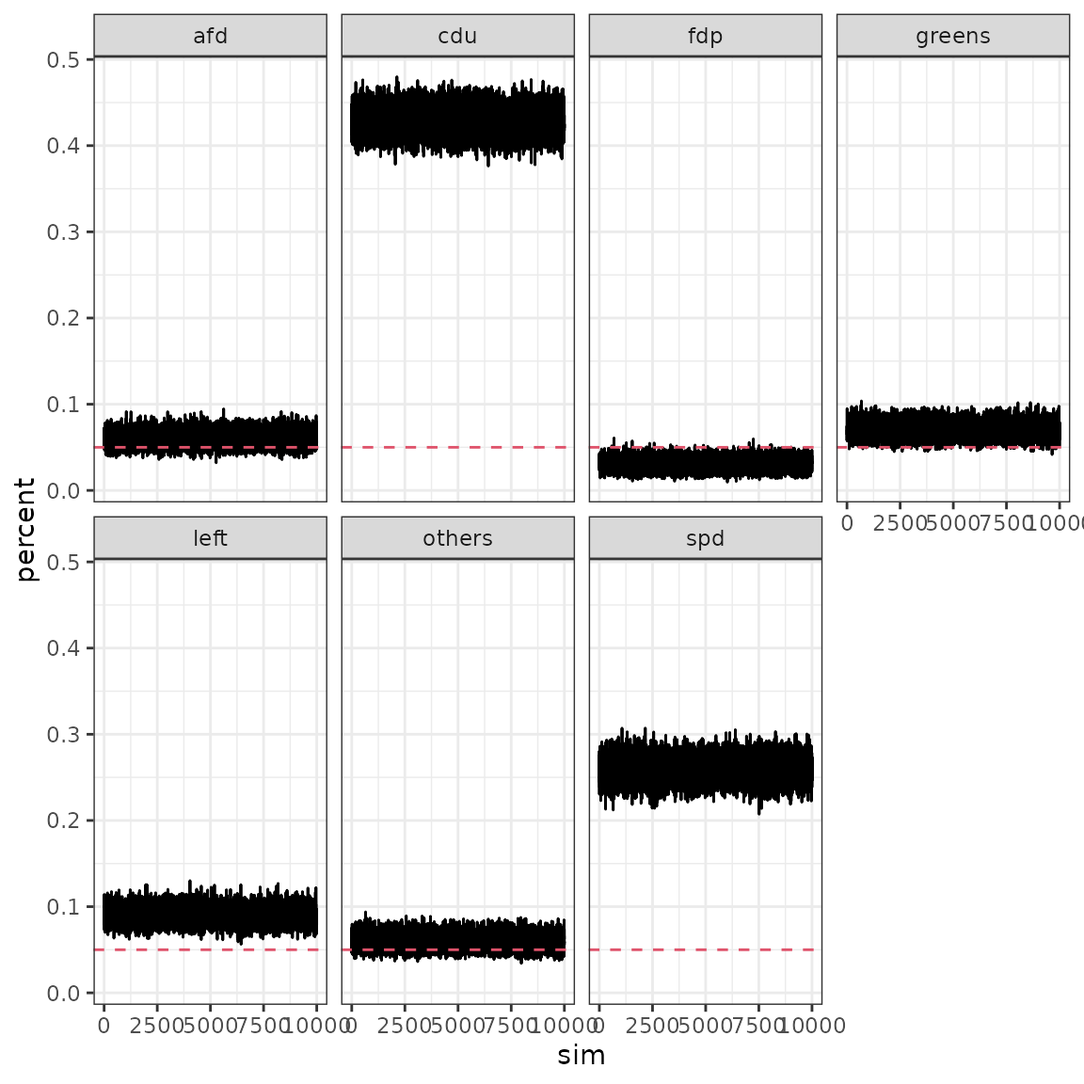
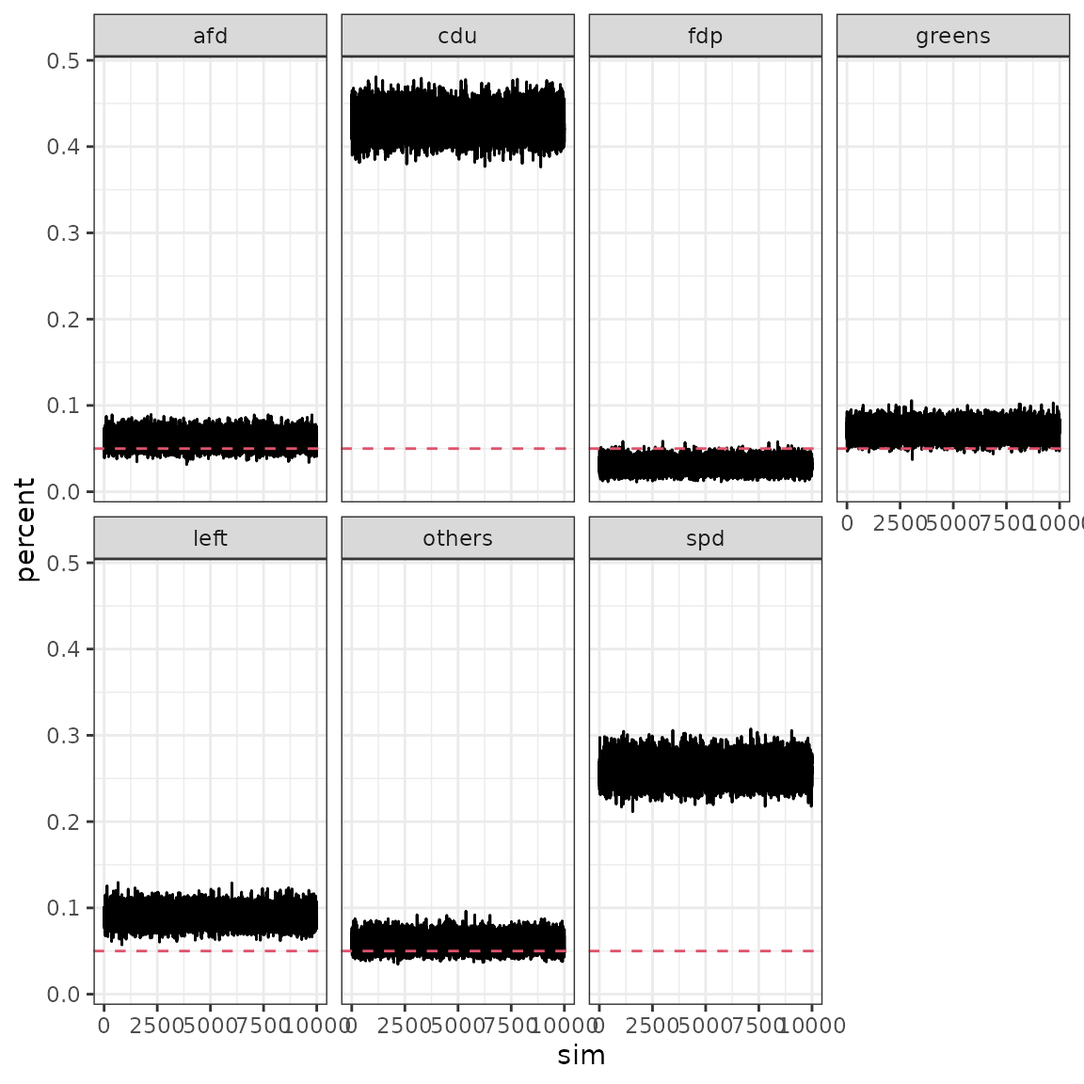
Deploying to gh-pages from @ adibender/coalitions@1d0309c2018a5a98af88ec200ad14ca1e53c190f 🚀

diff --git a/articles/workflow.html b/articles/workflow.html
@@ -222,16 +222,16 @@ by drawing from the Dirichlet distribution</p>
 <pre><code><span><span class="co">## <span style="color: #949494;"># A tibble: 10 × 7</span></span></span>
 <span><span class="co">##      cdu   spd greens    fdp   left    afd others</span></span>
 <span><span class="co">##    <span style="color: #949494; font-style: italic;">&lt;dbl&gt;</span> <span style="color: #949494; font-style: italic;">&lt;dbl&gt;</span>  <span style="color: #949494; font-style: italic;">&lt;dbl&gt;</span>  <span style="color: #949494; font-style: italic;">&lt;dbl&gt;</span>  <span style="color: #949494; font-style: italic;">&lt;dbl&gt;</span>  <span style="color: #949494; font-style: italic;">&lt;dbl&gt;</span>  <span style="color: #949494; font-style: italic;">&lt;dbl&gt;</span></span></span>
-<span><span class="co">## <span style="color: #BCBCBC;"> 1</span> 0.420 0.242 0.091<span style="text-decoration: underline;">2</span> 0.029<span style="text-decoration: underline;">3</span> 0.089<span style="text-decoration: underline;">3</span> 0.050<span style="text-decoration: underline;">8</span> 0.077<span style="text-decoration: underline;">2</span></span></span>
-<span><span class="co">## <span style="color: #BCBCBC;"> 2</span> 0.408 0.261 0.096<span style="text-decoration: underline;">6</span> 0.026<span style="text-decoration: underline;">6</span> 0.089<span style="text-decoration: underline;">9</span> 0.048<span style="text-decoration: underline;">1</span> 0.069<span style="text-decoration: underline;">4</span></span></span>
-<span><span class="co">## <span style="color: #BCBCBC;"> 3</span> 0.408 0.267 0.101  0.026<span style="text-decoration: underline;">4</span> 0.091<span style="text-decoration: underline;">7</span> 0.045<span style="text-decoration: underline;">4</span> 0.061<span style="text-decoration: underline;">1</span></span></span>
-<span><span class="co">## <span style="color: #BCBCBC;"> 4</span> 0.406 0.259 0.095<span style="text-decoration: underline;">9</span> 0.031<span style="text-decoration: underline;">3</span> 0.089<span style="text-decoration: underline;">4</span> 0.051<span style="text-decoration: underline;">1</span> 0.067<span style="text-decoration: underline;">5</span></span></span>
-<span><span class="co">## <span style="color: #BCBCBC;"> 5</span> 0.411 0.260 0.087<span style="text-decoration: underline;">5</span> 0.027<span style="text-decoration: underline;">2</span> 0.088<span style="text-decoration: underline;">6</span> 0.053<span style="text-decoration: underline;">6</span> 0.072<span style="text-decoration: underline;">8</span></span></span>
-<span><span class="co">## <span style="color: #BCBCBC;"> 6</span> 0.420 0.257 0.095<span style="text-decoration: underline;">5</span> 0.030<span style="text-decoration: underline;">2</span> 0.088<span style="text-decoration: underline;">0</span> 0.042<span style="text-decoration: underline;">8</span> 0.066<span style="text-decoration: underline;">5</span></span></span>
-<span><span class="co">## <span style="color: #BCBCBC;"> 7</span> 0.393 0.257 0.104  0.029<span style="text-decoration: underline;">6</span> 0.095<span style="text-decoration: underline;">7</span> 0.048<span style="text-decoration: underline;">7</span> 0.072<span style="text-decoration: underline;">6</span></span></span>
-<span><span class="co">## <span style="color: #BCBCBC;"> 8</span> 0.425 0.244 0.093<span style="text-decoration: underline;">0</span> 0.034<span style="text-decoration: underline;">2</span> 0.080<span style="text-decoration: underline;">6</span> 0.049<span style="text-decoration: underline;">2</span> 0.073<span style="text-decoration: underline;">9</span></span></span>
-<span><span class="co">## <span style="color: #BCBCBC;"> 9</span> 0.420 0.242 0.085<span style="text-decoration: underline;">0</span> 0.029<span style="text-decoration: underline;">5</span> 0.098<span style="text-decoration: underline;">4</span> 0.050<span style="text-decoration: underline;">5</span> 0.074<span style="text-decoration: underline;">8</span></span></span>
-<span><span class="co">## <span style="color: #BCBCBC;">10</span> 0.406 0.247 0.081<span style="text-decoration: underline;">6</span> 0.029<span style="text-decoration: underline;">2</span> 0.092<span style="text-decoration: underline;">6</span> 0.064<span style="text-decoration: underline;">6</span> 0.078<span style="text-decoration: underline;">6</span></span></span></code></pre>
+<span><span class="co">## <span style="color: #BCBCBC;"> 1</span> 0.407 0.261 0.081<span style="text-decoration: underline;">3</span> 0.030<span style="text-decoration: underline;">6</span> 0.096<span style="text-decoration: underline;">2</span> 0.043<span style="text-decoration: underline;">7</span> 0.080<span style="text-decoration: underline;">2</span></span></span>
+<span><span class="co">## <span style="color: #BCBCBC;"> 2</span> 0.428 0.249 0.084<span style="text-decoration: underline;">0</span> 0.032<span style="text-decoration: underline;">6</span> 0.076<span style="text-decoration: underline;">4</span> 0.047<span style="text-decoration: underline;">8</span> 0.082<span style="text-decoration: underline;">7</span></span></span>
+<span><span class="co">## <span style="color: #BCBCBC;"> 3</span> 0.437 0.236 0.086<span style="text-decoration: underline;">7</span> 0.025<span style="text-decoration: underline;">8</span> 0.094<span style="text-decoration: underline;">3</span> 0.048<span style="text-decoration: underline;">0</span> 0.072<span style="text-decoration: underline;">0</span></span></span>
+<span><span class="co">## <span style="color: #BCBCBC;"> 4</span> 0.433 0.244 0.082<span style="text-decoration: underline;">5</span> 0.026<span style="text-decoration: underline;">1</span> 0.097<span style="text-decoration: underline;">7</span> 0.054<span style="text-decoration: underline;">3</span> 0.062<span style="text-decoration: underline;">4</span></span></span>
+<span><span class="co">## <span style="color: #BCBCBC;"> 5</span> 0.424 0.231 0.096<span style="text-decoration: underline;">9</span> 0.032<span style="text-decoration: underline;">8</span> 0.096<span style="text-decoration: underline;">1</span> 0.049<span style="text-decoration: underline;">7</span> 0.069<span style="text-decoration: underline;">6</span></span></span>
+<span><span class="co">## <span style="color: #BCBCBC;"> 6</span> 0.404 0.258 0.093<span style="text-decoration: underline;">3</span> 0.033<span style="text-decoration: underline;">8</span> 0.098<span style="text-decoration: underline;">4</span> 0.039<span style="text-decoration: underline;">4</span> 0.073<span style="text-decoration: underline;">8</span></span></span>
+<span><span class="co">## <span style="color: #BCBCBC;"> 7</span> 0.430 0.239 0.087<span style="text-decoration: underline;">1</span> 0.022<span style="text-decoration: underline;">3</span> 0.101  0.046<span style="text-decoration: underline;">8</span> 0.074<span style="text-decoration: underline;">2</span></span></span>
+<span><span class="co">## <span style="color: #BCBCBC;"> 8</span> 0.437 0.249 0.085<span style="text-decoration: underline;">6</span> 0.029<span style="text-decoration: underline;">1</span> 0.091<span style="text-decoration: underline;">4</span> 0.043<span style="text-decoration: underline;">2</span> 0.064<span style="text-decoration: underline;">6</span></span></span>
+<span><span class="co">## <span style="color: #BCBCBC;"> 9</span> 0.414 0.258 0.089<span style="text-decoration: underline;">7</span> 0.031<span style="text-decoration: underline;">3</span> 0.087<span style="text-decoration: underline;">7</span> 0.056<span style="text-decoration: underline;">1</span> 0.063<span style="text-decoration: underline;">1</span></span></span>
+<span><span class="co">## <span style="color: #BCBCBC;">10</span> 0.429 0.244 0.094<span style="text-decoration: underline;">6</span> 0.027<span style="text-decoration: underline;">9</span> 0.085<span style="text-decoration: underline;">7</span> 0.050<span style="text-decoration: underline;">8</span> 0.067<span style="text-decoration: underline;">8</span></span></span></code></pre>
 </div>
 <div class="section level2">
 <h2 id="calculate-seat-distribution">Calculate seat distribution<a class="anchor" aria-label="anchor" href="#calculate-seat-distribution"></a>
@@ -254,31 +254,31 @@ function to the <code>distrib.fun</code> argument of the
 <pre><code><span><span class="co">## <span style="color: #949494;"># A tibble: 6 × 4</span></span></span>
 <span><span class="co">##   date       survey           draws             seats            </span></span>
 <span><span class="co">##   <span style="color: #949494; font-style: italic;">&lt;date&gt;</span>     <span style="color: #949494; font-style: italic;">&lt;list&gt;</span>           <span style="color: #949494; font-style: italic;">&lt;list&gt;</span>            <span style="color: #949494; font-style: italic;">&lt;list&gt;</span>           </span></span>
-<span><span class="co">## <span style="color: #BCBCBC;">1</span> 2013-11-03 <span style="color: #949494;">&lt;tibble [7 × 3]&gt;</span> <span style="color: #949494;">&lt;tibble [10 × 7]&gt;</span> <span style="color: #949494;">&lt;tibble [45 × 3]&gt;</span></span></span>
-<span><span class="co">## <span style="color: #BCBCBC;">2</span> 2013-10-27 <span style="color: #949494;">&lt;tibble [7 × 3]&gt;</span> <span style="color: #949494;">&lt;tibble [10 × 7]&gt;</span> <span style="color: #949494;">&lt;tibble [45 × 3]&gt;</span></span></span>
-<span><span class="co">## <span style="color: #BCBCBC;">3</span> 2013-10-20 <span style="color: #949494;">&lt;tibble [7 × 3]&gt;</span> <span style="color: #949494;">&lt;tibble [10 × 7]&gt;</span> <span style="color: #949494;">&lt;tibble [45 × 3]&gt;</span></span></span>
-<span><span class="co">## <span style="color: #BCBCBC;">4</span> 2013-10-13 <span style="color: #949494;">&lt;tibble [7 × 3]&gt;</span> <span style="color: #949494;">&lt;tibble [10 × 7]&gt;</span> <span style="color: #949494;">&lt;tibble [50 × 3]&gt;</span></span></span>
-<span><span class="co">## <span style="color: #BCBCBC;">5</span> 2013-10-06 <span style="color: #949494;">&lt;tibble [7 × 3]&gt;</span> <span style="color: #949494;">&lt;tibble [10 × 7]&gt;</span> <span style="color: #949494;">&lt;tibble [50 × 3]&gt;</span></span></span>
-<span><span class="co">## <span style="color: #BCBCBC;">6</span> 2013-09-29 <span style="color: #949494;">&lt;tibble [7 × 3]&gt;</span> <span style="color: #949494;">&lt;tibble [10 × 7]&gt;</span> <span style="color: #949494;">&lt;tibble [49 × 3]&gt;</span></span></span></code></pre>
+<span><span class="co">## <span style="color: #BCBCBC;">1</span> 2013-11-03 <span style="color: #949494;">&lt;tibble [7 × 3]&gt;</span> <span style="color: #949494;">&lt;tibble [10 × 7]&gt;</span> <span style="color: #949494;">&lt;tibble [43 × 3]&gt;</span></span></span>
+<span><span class="co">## <span style="color: #BCBCBC;">2</span> 2013-10-27 <span style="color: #949494;">&lt;tibble [7 × 3]&gt;</span> <span style="color: #949494;">&lt;tibble [10 × 7]&gt;</span> <span style="color: #949494;">&lt;tibble [43 × 3]&gt;</span></span></span>
+<span><span class="co">## <span style="color: #BCBCBC;">3</span> 2013-10-20 <span style="color: #949494;">&lt;tibble [7 × 3]&gt;</span> <span style="color: #949494;">&lt;tibble [10 × 7]&gt;</span> <span style="color: #949494;">&lt;tibble [43 × 3]&gt;</span></span></span>
+<span><span class="co">## <span style="color: #BCBCBC;">4</span> 2013-10-13 <span style="color: #949494;">&lt;tibble [7 × 3]&gt;</span> <span style="color: #949494;">&lt;tibble [10 × 7]&gt;</span> <span style="color: #949494;">&lt;tibble [49 × 3]&gt;</span></span></span>
+<span><span class="co">## <span style="color: #BCBCBC;">5</span> 2013-10-06 <span style="color: #949494;">&lt;tibble [7 × 3]&gt;</span> <span style="color: #949494;">&lt;tibble [10 × 7]&gt;</span> <span style="color: #949494;">&lt;tibble [49 × 3]&gt;</span></span></span>
+<span><span class="co">## <span style="color: #BCBCBC;">6</span> 2013-09-29 <span style="color: #949494;">&lt;tibble [7 × 3]&gt;</span> <span style="color: #949494;">&lt;tibble [10 × 7]&gt;</span> <span style="color: #949494;">&lt;tibble [48 × 3]&gt;</span></span></span></code></pre>
 <div class="sourceCode" id="cb14"><pre class="downlit sourceCode r">
 <code class="sourceCode R"><span><span class="co">## sim column indicates simulated elections (rows in draws column)</span></span>
 <span><span class="va">elong</span> <span class="op"><a href="../reference/pipe.html">%&gt;%</a></span> <span class="fu"><a href="https://dplyr.tidyverse.org/reference/slice.html" class="external-link">slice</a></span><span class="op">(</span><span class="fl">1</span><span class="op">)</span> <span class="op"><a href="../reference/pipe.html">%&gt;%</a></span> <span class="fu"><a href="https://dplyr.tidyverse.org/reference/select.html" class="external-link">select</a></span><span class="op">(</span><span class="va">seats</span><span class="op">)</span> <span class="op"><a href="../reference/pipe.html">%&gt;%</a></span> <span class="fu"><a href="https://tidyr.tidyverse.org/reference/unnest.html" class="external-link">unnest</a></span><span class="op">(</span><span class="st">"seats"</span><span class="op">)</span></span></code></pre></div>
-<pre><code><span><span class="co">## <span style="color: #949494;"># A tibble: 45 × 3</span></span></span>
+<pre><code><span><span class="co">## <span style="color: #949494;"># A tibble: 43 × 3</span></span></span>
 <span><span class="co">##      sim party  seats</span></span>
 <span><span class="co">##    <span style="color: #949494; font-style: italic;">&lt;int&gt;</span> <span style="color: #949494; font-style: italic;">&lt;chr&gt;</span>  <span style="color: #949494; font-style: italic;">&lt;int&gt;</span></span></span>
-<span><span class="co">## <span style="color: #BCBCBC;"> 1</span>     1 cdu       34</span></span>
-<span><span class="co">## <span style="color: #BCBCBC;"> 2</span>     1 spd      281</span></span>
-<span><span class="co">## <span style="color: #BCBCBC;"> 3</span>     1 greens    61</span></span>
-<span><span class="co">## <span style="color: #BCBCBC;"> 4</span>     1 left      60</span></span>
-<span><span class="co">## <span style="color: #BCBCBC;"> 5</span>     1 afd      162</span></span>
-<span><span class="co">## <span style="color: #BCBCBC;"> 6</span>     2 cdu      285</span></span>
-<span><span class="co">## <span style="color: #BCBCBC;"> 7</span>     2 spd       68</span></span>
-<span><span class="co">## <span style="color: #BCBCBC;"> 8</span>     2 greens    63</span></span>
-<span><span class="co">## <span style="color: #BCBCBC;"> 9</span>     2 left     182</span></span>
-<span><span class="co">## <span style="color: #BCBCBC;">10</span>     3 cdu      282</span></span>
-<span><span class="co">## <span style="color: #949494;"># ℹ 35 more rows</span></span></span></code></pre>
-<p>In the above example, given the latest survey, CDU/CSU would have 34
-seats in the first simulation, 285 seats in the second simulation,
+<span><span class="co">## <span style="color: #BCBCBC;"> 1</span>     1 cdu      288</span></span>
+<span><span class="co">## <span style="color: #BCBCBC;"> 2</span>     1 spd       57</span></span>
+<span><span class="co">## <span style="color: #BCBCBC;"> 3</span>     1 greens    68</span></span>
+<span><span class="co">## <span style="color: #BCBCBC;"> 4</span>     1 left     185</span></span>
+<span><span class="co">## <span style="color: #BCBCBC;"> 5</span>     2 cdu      306</span></span>
+<span><span class="co">## <span style="color: #BCBCBC;"> 6</span>     2 spd       60</span></span>
+<span><span class="co">## <span style="color: #BCBCBC;"> 7</span>     2 greens    55</span></span>
+<span><span class="co">## <span style="color: #BCBCBC;"> 8</span>     2 left     177</span></span>
+<span><span class="co">## <span style="color: #BCBCBC;"> 9</span>     3 cdu      306</span></span>
+<span><span class="co">## <span style="color: #BCBCBC;">10</span>     3 spd       61</span></span>
+<span><span class="co">## <span style="color: #949494;"># ℹ 33 more rows</span></span></span></code></pre>
+<p>In the above example, given the latest survey, CDU/CSU would have 288
+seats in the first simulation, 306 seats in the second simulation,
 etc.</p>
 </div>
 <div class="section level2">
@@ -308,12 +308,12 @@ could potentially obtain absolute majority on their own):</p>
 <pre><code><span><span class="co">## <span style="color: #949494;"># A tibble: 6 × 4</span></span></span>
 <span><span class="co">##   date       draws             seats             majorities       </span></span>
 <span><span class="co">##   <span style="color: #949494; font-style: italic;">&lt;date&gt;</span>     <span style="color: #949494; font-style: italic;">&lt;list&gt;</span>            <span style="color: #949494; font-style: italic;">&lt;list&gt;</span>            <span style="color: #949494; font-style: italic;">&lt;list&gt;</span>           </span></span>
-<span><span class="co">## <span style="color: #BCBCBC;">1</span> 2013-11-03 <span style="color: #949494;">&lt;tibble [10 × 7]&gt;</span> <span style="color: #949494;">&lt;tibble [45 × 3]&gt;</span> <span style="color: #949494;">&lt;tibble [10 × 9]&gt;</span></span></span>
-<span><span class="co">## <span style="color: #BCBCBC;">2</span> 2013-10-27 <span style="color: #949494;">&lt;tibble [10 × 7]&gt;</span> <span style="color: #949494;">&lt;tibble [45 × 3]&gt;</span> <span style="color: #949494;">&lt;tibble [10 × 9]&gt;</span></span></span>
-<span><span class="co">## <span style="color: #BCBCBC;">3</span> 2013-10-20 <span style="color: #949494;">&lt;tibble [10 × 7]&gt;</span> <span style="color: #949494;">&lt;tibble [45 × 3]&gt;</span> <span style="color: #949494;">&lt;tibble [10 × 9]&gt;</span></span></span>
-<span><span class="co">## <span style="color: #BCBCBC;">4</span> 2013-10-13 <span style="color: #949494;">&lt;tibble [10 × 7]&gt;</span> <span style="color: #949494;">&lt;tibble [50 × 3]&gt;</span> <span style="color: #949494;">&lt;tibble [10 × 9]&gt;</span></span></span>
-<span><span class="co">## <span style="color: #BCBCBC;">5</span> 2013-10-06 <span style="color: #949494;">&lt;tibble [10 × 7]&gt;</span> <span style="color: #949494;">&lt;tibble [50 × 3]&gt;</span> <span style="color: #949494;">&lt;tibble [10 × 9]&gt;</span></span></span>
-<span><span class="co">## <span style="color: #BCBCBC;">6</span> 2013-09-29 <span style="color: #949494;">&lt;tibble [10 × 7]&gt;</span> <span style="color: #949494;">&lt;tibble [49 × 3]&gt;</span> <span style="color: #949494;">&lt;tibble [10 × 9]&gt;</span></span></span></code></pre>
+<span><span class="co">## <span style="color: #BCBCBC;">1</span> 2013-11-03 <span style="color: #949494;">&lt;tibble [10 × 7]&gt;</span> <span style="color: #949494;">&lt;tibble [43 × 3]&gt;</span> <span style="color: #949494;">&lt;tibble [10 × 9]&gt;</span></span></span>
+<span><span class="co">## <span style="color: #BCBCBC;">2</span> 2013-10-27 <span style="color: #949494;">&lt;tibble [10 × 7]&gt;</span> <span style="color: #949494;">&lt;tibble [43 × 3]&gt;</span> <span style="color: #949494;">&lt;tibble [10 × 9]&gt;</span></span></span>
+<span><span class="co">## <span style="color: #BCBCBC;">3</span> 2013-10-20 <span style="color: #949494;">&lt;tibble [10 × 7]&gt;</span> <span style="color: #949494;">&lt;tibble [43 × 3]&gt;</span> <span style="color: #949494;">&lt;tibble [10 × 9]&gt;</span></span></span>
+<span><span class="co">## <span style="color: #BCBCBC;">4</span> 2013-10-13 <span style="color: #949494;">&lt;tibble [10 × 7]&gt;</span> <span style="color: #949494;">&lt;tibble [49 × 3]&gt;</span> <span style="color: #949494;">&lt;tibble [10 × 9]&gt;</span></span></span>
+<span><span class="co">## <span style="color: #BCBCBC;">5</span> 2013-10-06 <span style="color: #949494;">&lt;tibble [10 × 7]&gt;</span> <span style="color: #949494;">&lt;tibble [49 × 3]&gt;</span> <span style="color: #949494;">&lt;tibble [10 × 9]&gt;</span></span></span>
+<span><span class="co">## <span style="color: #BCBCBC;">6</span> 2013-09-29 <span style="color: #949494;">&lt;tibble [10 × 7]&gt;</span> <span style="color: #949494;">&lt;tibble [48 × 3]&gt;</span> <span style="color: #949494;">&lt;tibble [10 × 9]&gt;</span></span></span></code></pre>
 <div class="sourceCode" id="cb18"><pre class="downlit sourceCode r">
 <code class="sourceCode R"><span><span class="co"># The majorities table for each date will have 1 row per simulation</span></span>
 <span><span class="co"># and one column per coalition</span></span>
@@ -321,13 +321,13 @@ could potentially obtain absolute majority on their own):</p>
 <pre><code><span><span class="co">## <span style="color: #949494;"># A tibble: 10 × 9</span></span></span>
 <span><span class="co">##    cdu   cdu_fdp cdu_greens cdu_fdp_greens spd   left_spd greens_spd</span></span>
 <span><span class="co">##    <span style="color: #949494; font-style: italic;">&lt;lgl&gt;</span> <span style="color: #949494; font-style: italic;">&lt;lgl&gt;</span>   <span style="color: #949494; font-style: italic;">&lt;lgl&gt;</span>      <span style="color: #949494; font-style: italic;">&lt;lgl&gt;</span>          <span style="color: #949494; font-style: italic;">&lt;lgl&gt;</span> <span style="color: #949494; font-style: italic;">&lt;lgl&gt;</span>    <span style="color: #949494; font-style: italic;">&lt;lgl&gt;</span>     </span></span>
-<span><span class="co">## <span style="color: #BCBCBC;"> 1</span> FALSE FALSE   FALSE      FALSE          FALSE TRUE     TRUE      </span></span>
-<span><span class="co">## <span style="color: #BCBCBC;"> 2</span> FALSE FALSE   TRUE       TRUE           FALSE FALSE    FALSE     </span></span>
-<span><span class="co">## <span style="color: #BCBCBC;"> 3</span> FALSE FALSE   TRUE       TRUE           FALSE FALSE    FALSE     </span></span>
+<span><span class="co">## <span style="color: #BCBCBC;"> 1</span> FALSE FALSE   TRUE       TRUE           FALSE FALSE    FALSE     </span></span>
+<span><span class="co">## <span style="color: #BCBCBC;"> 2</span> TRUE  TRUE    TRUE       TRUE           FALSE FALSE    FALSE     </span></span>
+<span><span class="co">## <span style="color: #BCBCBC;"> 3</span> TRUE  TRUE    TRUE       TRUE           FALSE FALSE    FALSE     </span></span>
 <span><span class="co">## <span style="color: #BCBCBC;"> 4</span> FALSE FALSE   FALSE      FALSE          FALSE TRUE     TRUE      </span></span>
-<span><span class="co">## <span style="color: #BCBCBC;"> 5</span> FALSE FALSE   FALSE      FALSE          FALSE TRUE     TRUE      </span></span>
+<span><span class="co">## <span style="color: #BCBCBC;"> 5</span> FALSE FALSE   TRUE       TRUE           FALSE FALSE    FALSE     </span></span>
 <span><span class="co">## <span style="color: #BCBCBC;"> 6</span> FALSE FALSE   TRUE       TRUE           FALSE FALSE    FALSE     </span></span>
-<span><span class="co">## <span style="color: #BCBCBC;"> 7</span> FALSE FALSE   TRUE       TRUE           FALSE FALSE    FALSE     </span></span>
+<span><span class="co">## <span style="color: #BCBCBC;"> 7</span> TRUE  TRUE    TRUE       TRUE           FALSE FALSE    FALSE     </span></span>
 <span><span class="co">## <span style="color: #BCBCBC;"> 8</span> TRUE  TRUE    TRUE       TRUE           FALSE FALSE    FALSE     </span></span>
 <span><span class="co">## <span style="color: #BCBCBC;"> 9</span> FALSE FALSE   FALSE      FALSE          FALSE TRUE     TRUE      </span></span>
 <span><span class="co">## <span style="color: #BCBCBC;">10</span> FALSE FALSE   FALSE      FALSE          FALSE TRUE     TRUE      </span></span>
@@ -361,15 +361,15 @@ simulation with majority for “cdu/csu” and “fdp”, see example in
 <pre><code><span><span class="co">## <span style="color: #949494;"># A tibble: 9 × 2</span></span></span>
 <span><span class="co">##   coalition       probability</span></span>
 <span><span class="co">##   <span style="color: #949494; font-style: italic;">&lt;chr&gt;</span>                 <span style="color: #949494; font-style: italic;">&lt;dbl&gt;</span></span></span>
-<span><span class="co">## <span style="color: #BCBCBC;">1</span> cdu                      10</span></span>
+<span><span class="co">## <span style="color: #BCBCBC;">1</span> cdu                      40</span></span>
 <span><span class="co">## <span style="color: #BCBCBC;">2</span> cdu_fdp                   0</span></span>
-<span><span class="co">## <span style="color: #BCBCBC;">3</span> cdu_greens               40</span></span>
+<span><span class="co">## <span style="color: #BCBCBC;">3</span> cdu_greens               30</span></span>
 <span><span class="co">## <span style="color: #BCBCBC;">4</span> cdu_fdp_greens            0</span></span>
 <span><span class="co">## <span style="color: #BCBCBC;">5</span> spd                       0</span></span>
-<span><span class="co">## <span style="color: #BCBCBC;">6</span> left_spd                 50</span></span>
-<span><span class="co">## <span style="color: #BCBCBC;">7</span> greens_spd               50</span></span>
-<span><span class="co">## <span style="color: #BCBCBC;">8</span> greens_left_spd          40</span></span>
-<span><span class="co">## <span style="color: #BCBCBC;">9</span> cdu_spd                  90</span></span></code></pre>
+<span><span class="co">## <span style="color: #BCBCBC;">6</span> left_spd                 30</span></span>
+<span><span class="co">## <span style="color: #BCBCBC;">7</span> greens_spd               30</span></span>
+<span><span class="co">## <span style="color: #BCBCBC;">8</span> greens_left_spd          20</span></span>
+<span><span class="co">## <span style="color: #BCBCBC;">9</span> cdu_spd                  60</span></span></code></pre>
 </div>
 <div class="section level2">
 <h2 id="wrapper">Wrapper<a class="anchor" aria-label="anchor" href="#wrapper"></a>
@@ -381,15 +381,15 @@ simulation with majority for “cdu/csu” and “fdp”, see example in
 <pre><code><span><span class="co">## <span style="color: #949494;"># A tibble: 36 × 3</span></span></span>
 <span><span class="co">##    date       coalition       probability</span></span>
 <span><span class="co">##    <span style="color: #949494; font-style: italic;">&lt;date&gt;</span>     <span style="color: #949494; font-style: italic;">&lt;chr&gt;</span>                 <span style="color: #949494; font-style: italic;">&lt;dbl&gt;</span></span></span>
-<span><span class="co">## <span style="color: #BCBCBC;"> 1</span> 2013-11-03 cdu                      20</span></span>
+<span><span class="co">## <span style="color: #BCBCBC;"> 1</span> 2013-11-03 cdu                      10</span></span>
 <span><span class="co">## <span style="color: #BCBCBC;"> 2</span> 2013-11-03 cdu_fdp                   0</span></span>
-<span><span class="co">## <span style="color: #BCBCBC;"> 3</span> 2013-11-03 cdu_fdp_greens           30</span></span>
+<span><span class="co">## <span style="color: #BCBCBC;"> 3</span> 2013-11-03 cdu_fdp_greens           20</span></span>
 <span><span class="co">## <span style="color: #BCBCBC;"> 4</span> 2013-11-03 spd                       0</span></span>
-<span><span class="co">## <span style="color: #BCBCBC;"> 5</span> 2013-11-03 left_spd                 50</span></span>
-<span><span class="co">## <span style="color: #BCBCBC;"> 6</span> 2013-11-03 greens_left_spd          30</span></span>
+<span><span class="co">## <span style="color: #BCBCBC;"> 5</span> 2013-11-03 left_spd                 70</span></span>
+<span><span class="co">## <span style="color: #BCBCBC;"> 6</span> 2013-11-03 greens_left_spd          20</span></span>
 <span><span class="co">## <span style="color: #BCBCBC;"> 7</span> 2013-10-27 cdu                       0</span></span>
 <span><span class="co">## <span style="color: #BCBCBC;"> 8</span> 2013-10-27 cdu_fdp                   0</span></span>
-<span><span class="co">## <span style="color: #BCBCBC;"> 9</span> 2013-10-27 cdu_fdp_greens           50</span></span>
+<span><span class="co">## <span style="color: #BCBCBC;"> 9</span> 2013-10-27 cdu_fdp_greens           30</span></span>
 <span><span class="co">## <span style="color: #BCBCBC;">10</span> 2013-10-27 spd                       0</span></span>
 <span><span class="co">## <span style="color: #949494;"># ℹ 26 more rows</span></span></span></code></pre>
 </div>

diff --git a/reference/get_seats.html b/reference/get_seats.html
@@ -153,15 +153,15 @@ explicitly are subsumed.</p></dd>
 <span class="r-out co"><span class="r-pr">#&gt;</span>      sim party  seats</span>
 <span class="r-out co"><span class="r-pr">#&gt;</span>    <span style="color: #949494; font-style: italic;">&lt;int&gt;</span> <span style="color: #949494; font-style: italic;">&lt;chr&gt;</span>  <span style="color: #949494; font-style: italic;">&lt;int&gt;</span></span>
 <span class="r-out co"><span class="r-pr">#&gt;</span> <span style="color: #BCBCBC;"> 1</span>     1 cdu       51</span>
-<span class="r-out co"><span class="r-pr">#&gt;</span> <span style="color: #BCBCBC;"> 2</span>     1 spd      234</span>
-<span class="r-out co"><span class="r-pr">#&gt;</span> <span style="color: #BCBCBC;"> 3</span>     1 greens    57</span>
-<span class="r-out co"><span class="r-pr">#&gt;</span> <span style="color: #BCBCBC;"> 4</span>     1 fdp       54</span>
-<span class="r-out co"><span class="r-pr">#&gt;</span> <span style="color: #BCBCBC;"> 5</span>     1 left      55</span>
-<span class="r-out co"><span class="r-pr">#&gt;</span> <span style="color: #BCBCBC;"> 6</span>     1 afd      147</span>
-<span class="r-out co"><span class="r-pr">#&gt;</span> <span style="color: #BCBCBC;"> 7</span>     2 cdu       57</span>
-<span class="r-out co"><span class="r-pr">#&gt;</span> <span style="color: #BCBCBC;"> 8</span>     2 spd      234</span>
-<span class="r-out co"><span class="r-pr">#&gt;</span> <span style="color: #BCBCBC;"> 9</span>     2 greens    50</span>
-<span class="r-out co"><span class="r-pr">#&gt;</span> <span style="color: #BCBCBC;">10</span>     2 fdp       57</span>
+<span class="r-out co"><span class="r-pr">#&gt;</span> <span style="color: #BCBCBC;"> 2</span>     1 spd      245</span>
+<span class="r-out co"><span class="r-pr">#&gt;</span> <span style="color: #BCBCBC;"> 3</span>     1 greens    50</span>
+<span class="r-out co"><span class="r-pr">#&gt;</span> <span style="color: #BCBCBC;"> 4</span>     1 fdp       51</span>
+<span class="r-out co"><span class="r-pr">#&gt;</span> <span style="color: #BCBCBC;"> 5</span>     1 left      60</span>
+<span class="r-out co"><span class="r-pr">#&gt;</span> <span style="color: #BCBCBC;"> 6</span>     1 afd      141</span>
+<span class="r-out co"><span class="r-pr">#&gt;</span> <span style="color: #BCBCBC;"> 7</span>     2 cdu       44</span>
+<span class="r-out co"><span class="r-pr">#&gt;</span> <span style="color: #BCBCBC;"> 8</span>     2 spd      237</span>
+<span class="r-out co"><span class="r-pr">#&gt;</span> <span style="color: #BCBCBC;"> 9</span>     2 greens    55</span>
+<span class="r-out co"><span class="r-pr">#&gt;</span> <span style="color: #BCBCBC;">10</span>     2 fdp       52</span>
 <span class="r-out co"><span class="r-pr">#&gt;</span> <span style="color: #949494;"># ℹ 590 more rows</span></span>
 <span class="r-out co"><span class="r-pr">#&gt;</span> </span>
 </code></pre></div>

diff --git a/index.html b/index.html
@@ -106,7 +106,7 @@
 <div class="section level1">
 <div class="page-header"><h1 id="coalitions-">coalitions <img src="reference/figures/logo.png" align="right"><a class="anchor" aria-label="anchor" href="#coalitions-"></a>
 </h1></div>
-<p><a href="https://github.com/adibender/coalitions/actions/workflows/R-CMD-check.yaml" class="external-link"><img src="https://github.com/adibender/coalitions/actions/workflows/R-CMD-check.yaml/badge.svg" alt="R-CMD-check"></a> <a href="https://app.codecov.io/github/adibender/coalitions?branch=master" class="external-link"><img src="https://app.codecov.io/github/adibender/coalitions/master.svg" alt="Coverage Status"></a> <a href="https://cran.r-project.org/package=coalitions" class="external-link"><img src="https://www.r-pkg.org/badges/version-ago/coalitions" alt="CRAN_Status_Badge"></a> <a href="https://cran.r-project.org/package=coalitions" class="external-link"><img src="https://cranlogs.r-pkg.org/badges/coalitions"></a> <a href="https://opensource.org/licenses/MIT" class="external-link"><img src="https://img.shields.io/badge/license-MIT-brightgreen.svg" alt="MIT license"></a></p>
+<p><a href="https://github.com/adibender/coalitions/actions/workflows/R-CMD-check.yaml" class="external-link"><img src="https://github.com/adibender/coalitions/actions/workflows/R-CMD-check.yaml/badge.svg" alt="R-CMD-check"></a> <a href="https://app.codecov.io/github/adibender/coalitions?branch=master" class="external-link"><img src="https://codecov.io/gh/adibender/coalitions/branch/master/graph/badge.svg" alt="Coverage Status"></a> <a href="https://cran.r-project.org/package=coalitions" class="external-link"><img src="https://www.r-pkg.org/badges/version-ago/coalitions" alt="CRAN_Status_Badge"></a> <a href="https://cran.r-project.org/package=coalitions" class="external-link"><img src="https://cranlogs.r-pkg.org/badges/coalitions"></a> <a href="https://opensource.org/licenses/MIT" class="external-link"><img src="https://img.shields.io/badge/license-MIT-brightgreen.svg" alt="MIT license"></a></p>
 <div class="section level2">
 <h2 id="overview">Overview<a class="anchor" aria-label="anchor" href="#overview"></a>
 </h2>

diff --git a/articles/diagnostic.html b/articles/diagnostic.html
@@ -164,12 +164,12 @@ Bender</h4>
 <pre><code><span><span class="co">## <span style="color: #949494;"># A tibble: 7 × 2</span></span></span>
 <span><span class="co">##   party  entryprob</span></span>
 <span><span class="co">##   <span style="color: #949494; font-style: italic;">&lt;chr&gt;</span>      <span style="color: #949494; font-style: italic;">&lt;dbl&gt;</span></span></span>
-<span><span class="co">## <span style="color: #BCBCBC;">1</span> afd       0.892 </span></span>
+<span><span class="co">## <span style="color: #BCBCBC;">1</span> afd       0.890 </span></span>
 <span><span class="co">## <span style="color: #BCBCBC;">2</span> cdu       1     </span></span>
-<span><span class="co">## <span style="color: #BCBCBC;">3</span> fdp       0.002<span style="text-decoration: underline;">9</span></span></span>
-<span><span class="co">## <span style="color: #BCBCBC;">4</span> greens    0.994 </span></span>
+<span><span class="co">## <span style="color: #BCBCBC;">3</span> fdp       0.003<span style="text-decoration: underline;">8</span></span></span>
+<span><span class="co">## <span style="color: #BCBCBC;">4</span> greens    0.995 </span></span>
 <span><span class="co">## <span style="color: #BCBCBC;">5</span> left      1     </span></span>
-<span><span class="co">## <span style="color: #BCBCBC;">6</span> others    0.892 </span></span>
+<span><span class="co">## <span style="color: #BCBCBC;">6</span> others    0.893 </span></span>
 <span><span class="co">## <span style="color: #BCBCBC;">7</span> spd       1</span></span></code></pre>
   </div>
 

diff --git a/reference/get_entryprobability.html b/reference/get_entryprobability.html
@@ -118,7 +118,7 @@ to enter the parliament. Any party called "ssw" will be exempt from the hurdle.<
 <span class="r-in"><span><span class="va">surveys</span><span class="op">$</span><span class="va">entryProbs</span></span></span>
 <span class="r-out co"><span class="r-pr">#&gt;</span> [[1]]</span>
 <span class="r-out co"><span class="r-pr">#&gt;</span>    cdu    spd greens    fdp   left    afd others </span>
-<span class="r-out co"><span class="r-pr">#&gt;</span>   1.00   1.00   1.00   1.00   1.00   1.00   0.53 </span>
+<span class="r-out co"><span class="r-pr">#&gt;</span>   1.00   1.00   1.00   1.00   1.00   1.00   0.63 </span>
 <span class="r-out co"><span class="r-pr">#&gt;</span> </span>
 </code></pre></div>
     </div>
